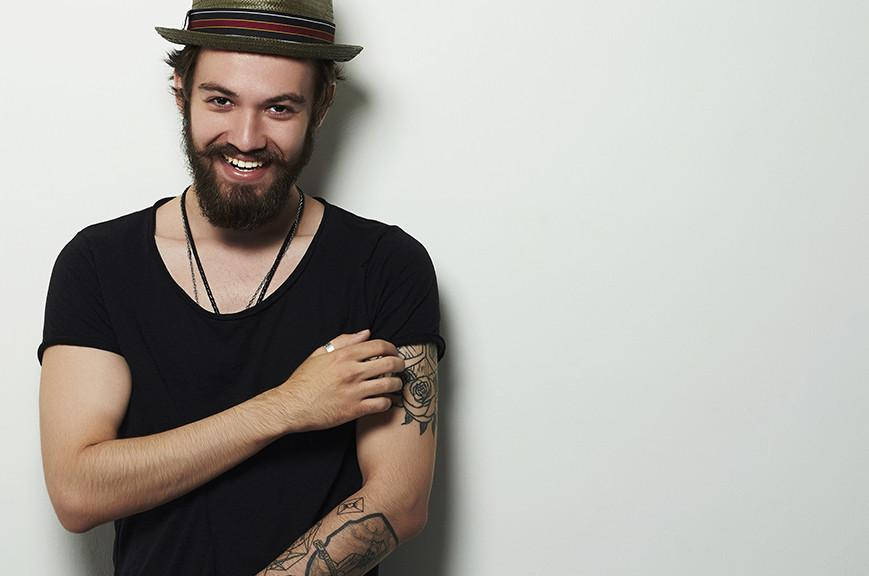
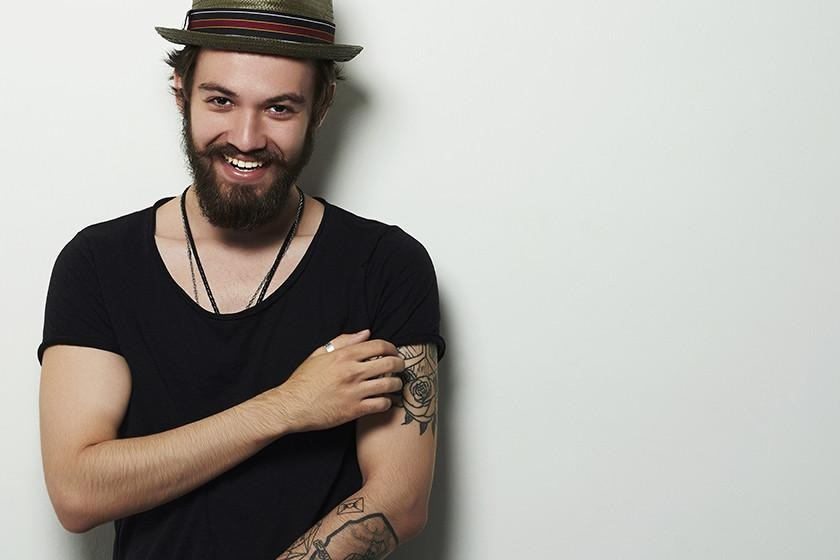
added css Animation for Slider content

Changed region(s): [[0.031, 0.3946, 0.5881, 1.0], [0.0619, 0.0, 0.4643, 0.5768], [0.031, 0.85, 0.0619, 0.8804]]

diff --git a/src/App/Main/HomePage/SliderBlock/SlickSlider/textanimation.css b/src/App/Main/HomePage/SliderBlock/SlickSlider/textanimation.css
@@ -1,0 +1,84 @@
+.slick-slide.slick-active .slide-item-title {
+    animation: bounce-top-title 1.8s 1 both;
+    animation-delay: 100ms;
+}
+.slick-slide.slick-active .slide-item-text {
+    animation: bounce-top-text 1.8s 1 both;
+    animation-delay: 300ms;
+    z-index: 1;
+}
+.slick-slide.slick-active .slide-item-btn a {
+    animation: bounce-top-btn 2s 1 both;
+    animation-delay: 550ms;
+    z-index: 1;
+}
+@keyframes bounce-top-title {
+    0% {
+      transform: translateY(-160px);
+      animation-timing-function: ease-in-out;
+      opacity: 0;
+    }
+    25% {
+      opacity: 1;
+    }
+    30% {
+      transform: translateY(-12px);
+      animation-timing-function: ease-in-out;
+    }
+    20% {
+        transform: translateY(12px);
+        animation-timing-function: ease-in-out;
+    }
+    40% {
+      transform: translateY(0px);
+      animation-timing-function: ease-in-out;
+    }
+    100% {
+      transform: translateY(0px);
+      animation-timing-function: ease-in-out;
+    }
+  }
+@keyframes bounce-top-text {
+    0% {
+      transform: translateY(-300px);
+      animation-timing-function: ease-in-out;
+      opacity: 0;
+    }
+    25% {
+      opacity: 1;
+    }
+    40% {
+      transform: translateY(-6px);
+      animation-timing-function: ease-in-out;
+    }
+    25% {
+        transform: translateY(20px);
+        animation-timing-function: ease-in-out;
+    }
+    55%, 100% {
+      transform: translateY(0px);
+      animation-timing-function: ease-in-out;
+    }
+  }
+@keyframes bounce-top-btn {
+    0% {
+      transform: translateY(-600px);
+      animation-timing-function: ease-in-out;
+      opacity: 0;
+    }
+    30% {
+      opacity: 1;
+    }
+    45% {
+      transform: translateY(-12px);
+      animation-timing-function: ease-in-out;
+    }
+    30% {
+        transform: translateY(35px);
+        animation-timing-function: ease-in-out;
+    }
+    60%, 100% {
+      transform: translateY(0px);
+      animation-timing-function: ease-in-out;
+    }
+  }

diff --git a/src/App/Main/HomePage/SliderBlock/SlickSlider/SlickSlider.js b/src/App/Main/HomePage/SliderBlock/SlickSlider/SlickSlider.js
@@ -5,6 +5,7 @@ import Slider from "react-slick"
 import 'slick-carousel/slick/slick.css'
 import 'slick-carousel/slick/slick-theme.css'
 import './slickslider.css'
+import './textanimation.css'
 
 const SlickSlider = ({
     settings = {
@@ -33,7 +34,7 @@ const SlickSlider = ({
                     </div>
                 </div>
                 <div className="slick-slide-item">
-                    <div className="slick-image"><img src="/images/slider/slideshow-111.jpg" alt=""/></div>
+                    <div className="slick-image"><img src="/images/slider/slideshow_2.jpg" alt=""/></div>
                     <div className="slider-content">
                         <div className="slide-item-title">leather<br/>belts</div>
                         <div className="slide-item-text">

diff --git a/src/App/Main/HomePage/SliderBlock/SlickSlider/slickslider.css b/src/App/Main/HomePage/SliderBlock/SlickSlider/slickslider.css
@@ -7,18 +7,17 @@
 .slick-list {
     background-color: #fff;
     border: none;
-    height: 560px;
 }
 .slider-row {
     padding-right: 15px;
-    height: 560px;
-    width: 100%;
 }
 .slick-slide-item {
-    height: 560px;
     width: 100%;
     position: relative;
-    overflow: hidden;
+}
+.slick-image img {
+    width: 100%;
+    height: auto;
 }
 .slider-content {
 	display: block;
@@ -61,6 +60,7 @@
     color: #fff;
     border: 1px solid #000;
 }
+
 .slick-dots {
     bottom: 2px;
     right: 0;
